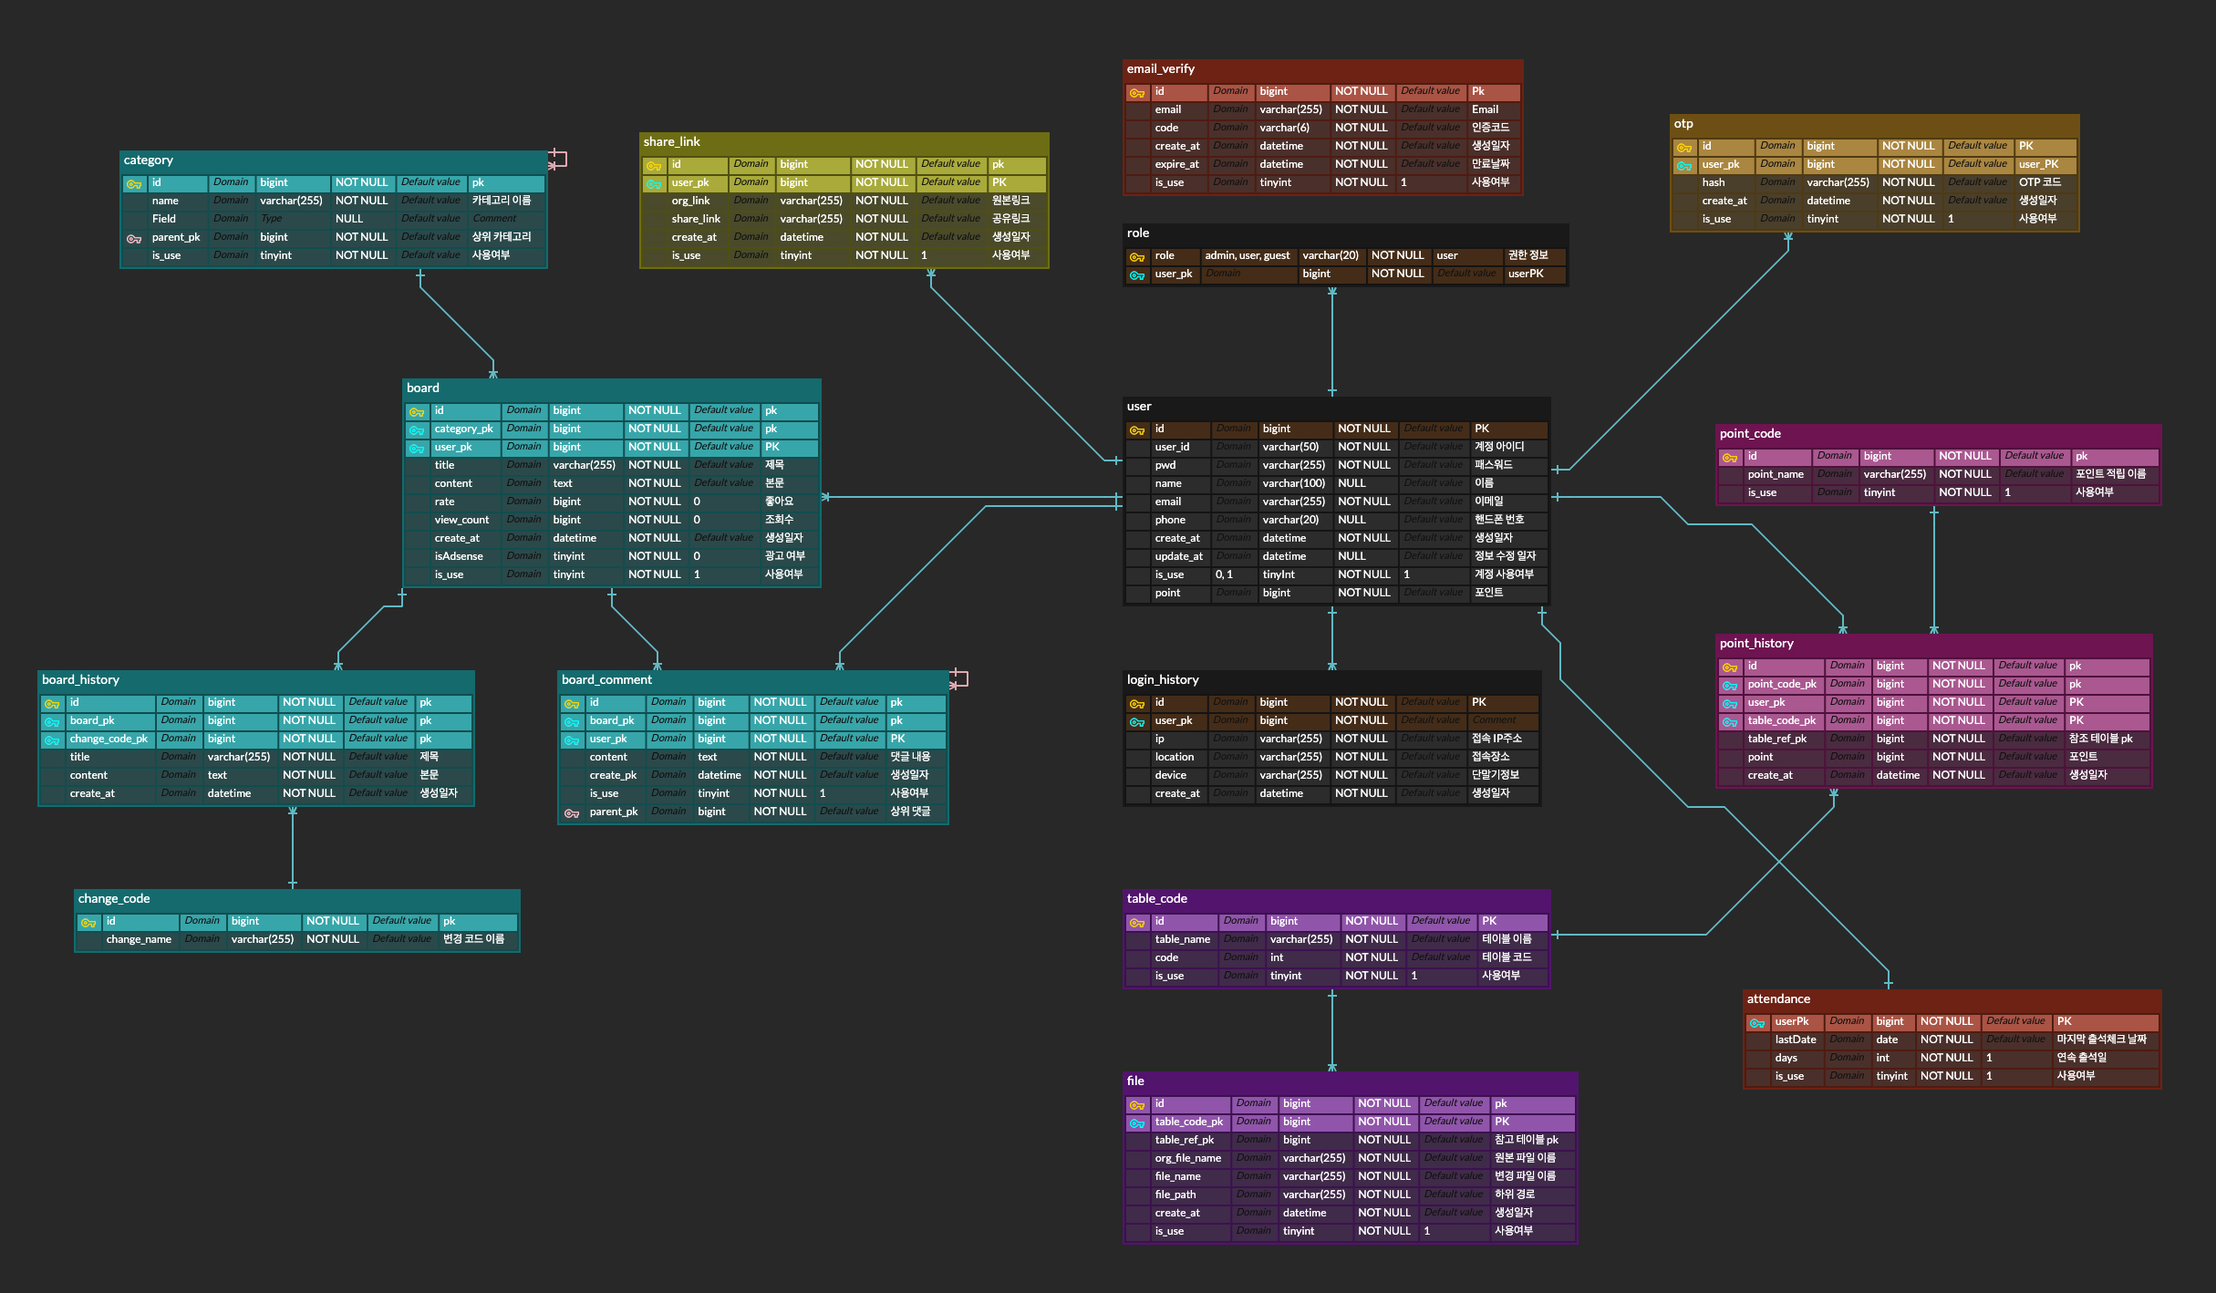
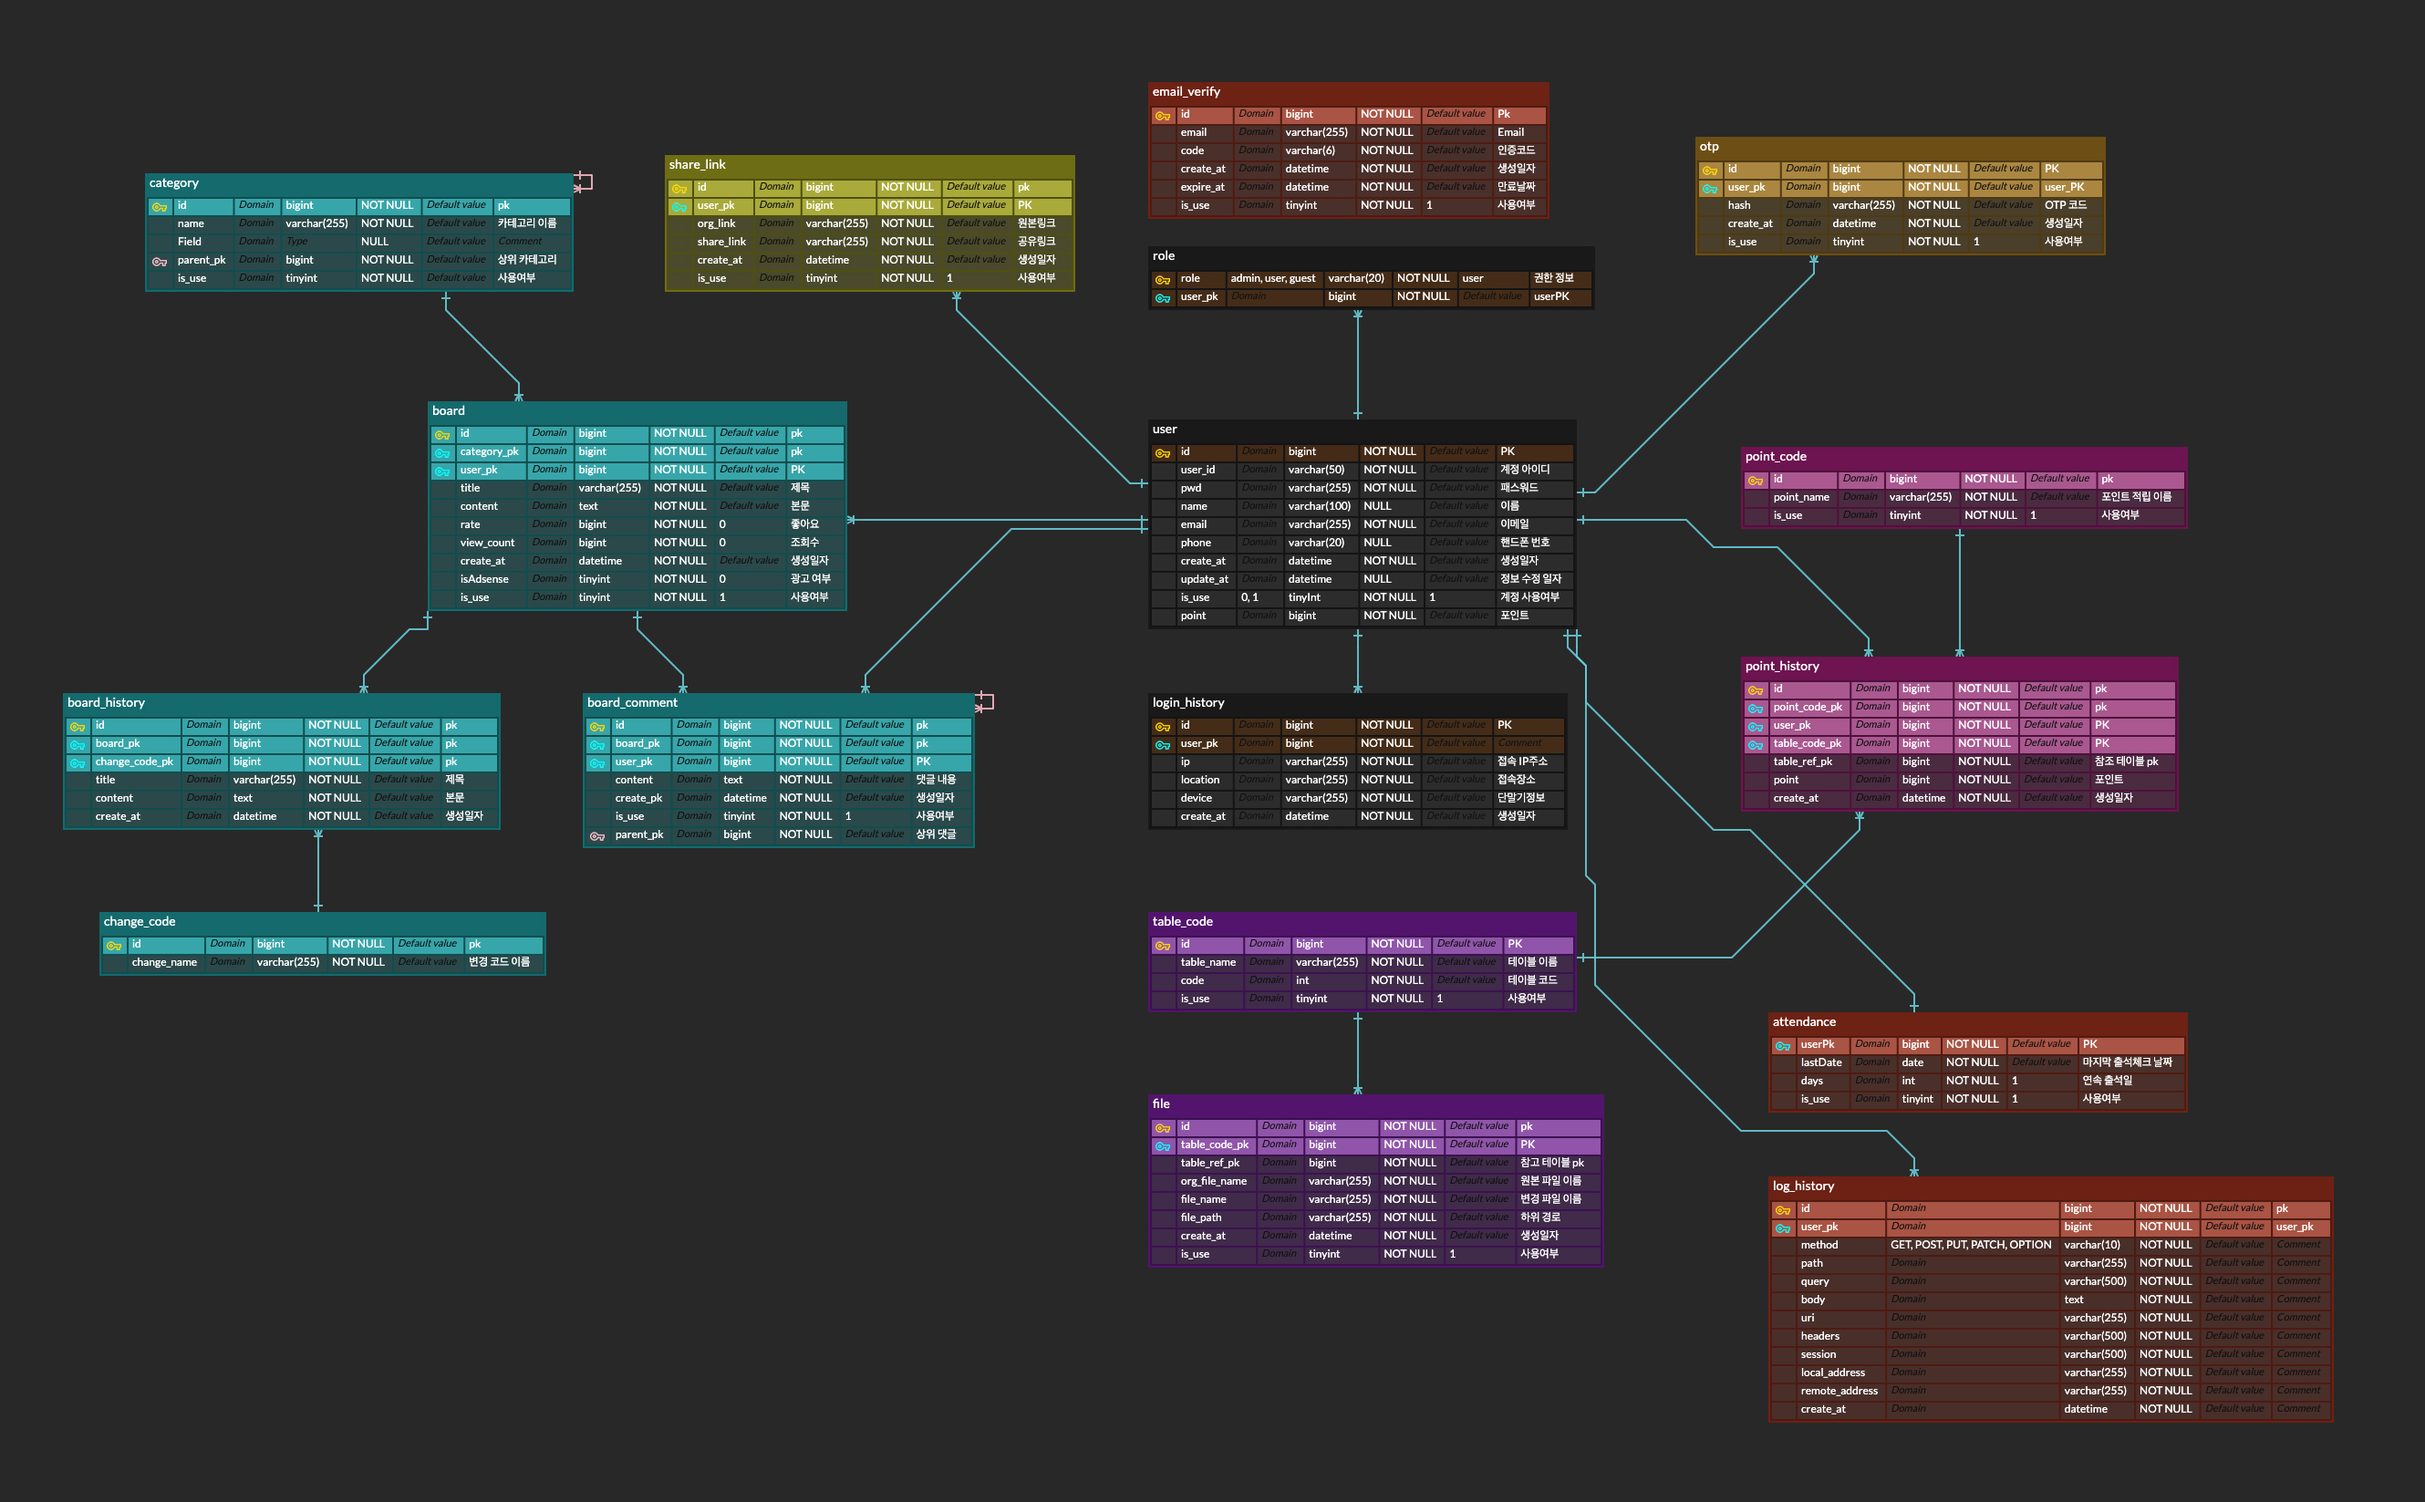
1. 코드 리뷰 추가

diff --git a/Writerside/topics/project-Anamensis.md b/Writerside/topics/project-Anamensis.md
@@ -43,6 +43,22 @@
 ## ERD
 ![](anamensis-erd.jpg){thumbnail="true"}
 
+
+## CodeReview
+
+
+<chapter title="1.API 사용 로그 필터" collapsible="true">
+
+  <a href="https://github.com/ardi-orrorin/anamensis/blob/main/server/src/main/java/com/anamensis/server/config/LogHistoryFilter.java">
+    GITHUB SOURCE LINK
+  </a>
+
+  <img src="anamensis-codereview-filter-01.jpg" alt="" thumbnail="true" style="block" />
+  <img src="anamensis-codereview-filter-02.jpg" alt="" thumbnail="true" style="block"/>
+  <img src="anamensis-codereview-filter-03.jpg" alt="" thumbnail="true" style="block" />
+
+</chapter>
+
 <seealso>
     <category ref="erdcloud">
         <a href="https://www.erdcloud.com/d/kaLkfNKiwKcPe85k4">ERD Cloud</a>
